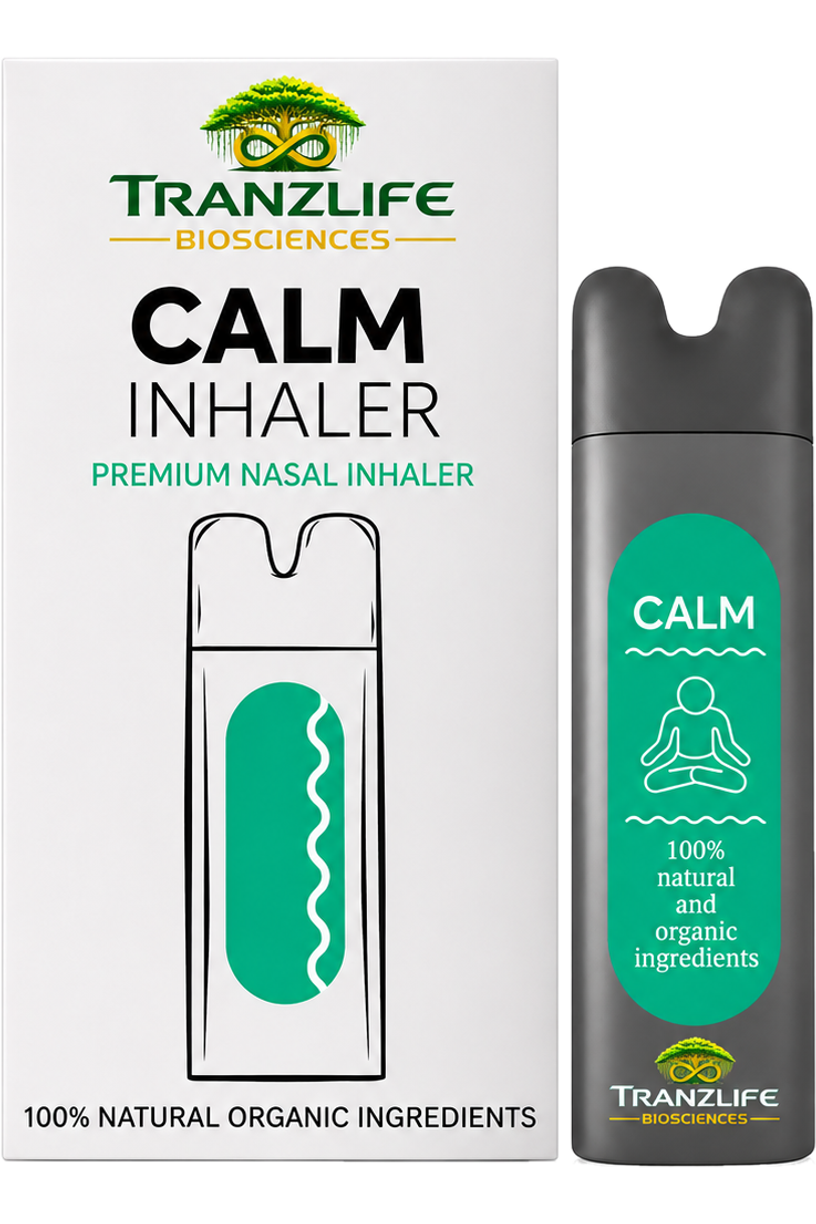
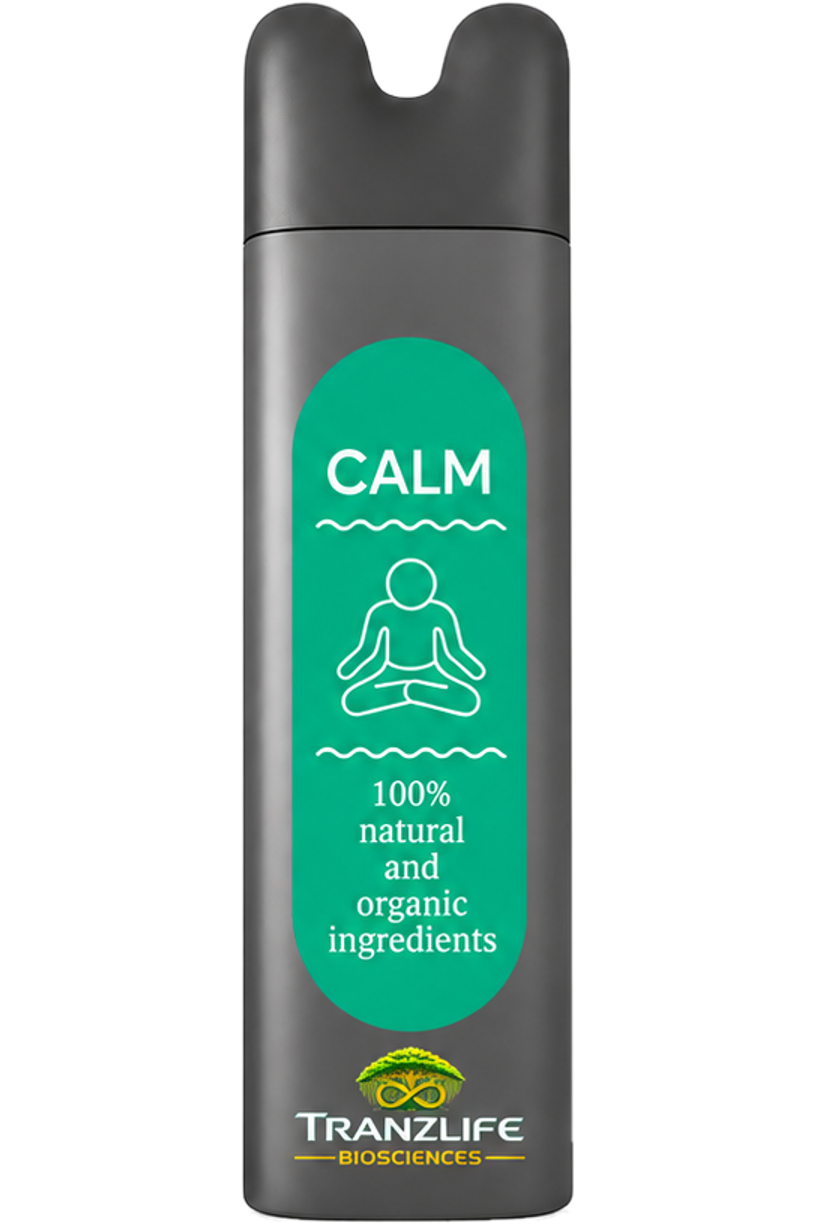
feat(photos): solo product cut-outs with shadows in the home slider and Shop menu
- Reviva, Liver Booster and BreatheFree cut-outs are now the product alone (no box, scene or
  greenery), made locally by colour from the final photos (import-final-products.mjs soloCut)
- Shop menu: soft drop shadow following each product's shape plus a small ground shadow
- Cut-outs cache-busted (?v=4); images and styles only, no price or text changes

diff --git a/src/components/sections/ProductSlider.jsx b/src/components/sections/ProductSlider.jsx
@@ -13,7 +13,7 @@ const ALL_FORMULATIONS = [
     subTitle: 'Respiratory Clarity & Daily Lung Detox',
     bgWord: 'PULMO',
     bgColor: '#bca7dc', // Soft berry lilac matching Blendy reference & natural berry gummies
-    bottleImg: '/assets/product-4.png?v=3',
+    bottleImg: '/assets/product-4.png?v=4',
     alt: 'PulmoClear™ Lung Booster Gummies packaging',
     tag: 'Lung Detox',
     ingredients: [
@@ -34,7 +34,7 @@ const ALL_FORMULATIONS = [
     subTitle: 'Hepatic Protection, Cell Repair & Digestion',
     bgWord: 'LIVER',
     bgColor: '#dfbe95', // Warm golden herbal ochre
-    bottleImg: '/assets/product-5.png?v=3',
+    bottleImg: '/assets/product-5.png?v=4',
     alt: 'LiverDetox™ Polyherbal Concoction bottle',
     tag: 'Liver Booster',
     ingredients: [
@@ -55,7 +55,7 @@ const ALL_FORMULATIONS = [
     subTitle: 'Abdominal Soothing & Cramp Relief Ritual',
     bgWord: 'CYCLE',
     bgColor: '#c8b3e6', // Calming orchid lavender
-    bottleImg: '/assets/product-1.png?v=3',
+    bottleImg: '/assets/product-1.png?v=4',
     alt: 'CycleRelief™ Menstrual Comfort Roll-On applicator',
     tag: 'Period Care',
     ingredients: [
@@ -76,7 +76,7 @@ const ALL_FORMULATIONS = [
     subTitle: 'Bioactive Stamina, Vitality & Physical Endurance',
     bgWord: 'ENERGY',
     bgColor: '#ad98d6', // Vibrant energized royal violet
-    bottleImg: '/assets/product-2.png?v=3',
+    bottleImg: '/assets/product-2.png?v=4',
     alt: 'TranzLife Energy Booster™ bottle',
     tag: 'Active Vitality',
     ingredients: [
@@ -97,7 +97,7 @@ const ALL_FORMULATIONS = [
     subTitle: 'Morning Awakening & Vitality Self-Care Ritual',
     bgWord: 'REVIVA',
     bgColor: '#e8bfa1', // Warm sunrise apricot peach
-    bottleImg: '/assets/product-3.png?v=3',
+    bottleImg: '/assets/product-3.png?v=4',
     alt: 'Reviva™ Botanical Massage Roll-On applicator',
     tag: 'Vitality Ritual',
     ingredients: [
@@ -118,7 +118,7 @@ const ALL_FORMULATIONS = [
     subTitle: 'Fast-Acting Nicotine & Smoking Urge Relief',
     bgWord: 'BREATHE',
     bgColor: '#9ecfc5', // Crisp cooling peppermint teal
-    bottleImg: '/assets/product-6.png?v=3',
+    bottleImg: '/assets/product-6.png?v=4',
     alt: 'BreatheFree™ Aromatherapy Inhaler',
     tag: 'Quit Smoking Support',
     ingredients: [

diff --git a/src/styles/polish.css b/src/styles/polish.css
@@ -1490,3 +1490,16 @@ html.ft-fixed .main { margin-bottom: var(--ft-h, 0px); }
   .header__logo:hover { transform: translateY(-50%) scale(1.02); }
   .header__logo .logo__text { font-size: 22px; }
 }
+
+/* Shop menu: products stand on the menu like the slider (solo cut-outs): a soft shadow that follows the
+   product's shape, plus a small ground shadow under it. */
+.mega__inner--shop .mega__card .media--product { position: relative; overflow: visible; }
+.mega__inner--shop .mega__card .media--product > img {
+  z-index: 1; box-sizing: border-box; padding: 2% 4% 7%; object-fit: contain;
+  filter: drop-shadow(0 14px 14px rgba(15, 47, 29, .22)) drop-shadow(0 3px 4px rgba(15, 47, 29, .14));
+}
+.mega__inner--shop .mega__card .media--product::after {
+  content: ""; position: absolute; left: 50%; bottom: 0; width: 56%; height: 9%; transform: translateX(-50%);
+  border-radius: 50%; background: radial-gradient(ellipse at center, rgba(15, 47, 29, .30), rgba(15, 47, 29, 0) 70%);
+  filter: blur(4px); z-index: 0; pointer-events: none;
+}

diff --git a/src/components/ui.jsx b/src/components/ui.jsx
@@ -46,7 +46,7 @@ export function Ph({ children, ...rest }) {
 export function ProductImg({ n, alt = '', eager = false }) {
   return (
     <img
-      src={`${import.meta.env.BASE_URL}assets/product-${n}.png?v=3`}
+      src={`${import.meta.env.BASE_URL}assets/product-${n}.png?v=4`}
       alt={alt}
       loading={eager ? 'eager' : 'lazy'}
       decoding="async"
